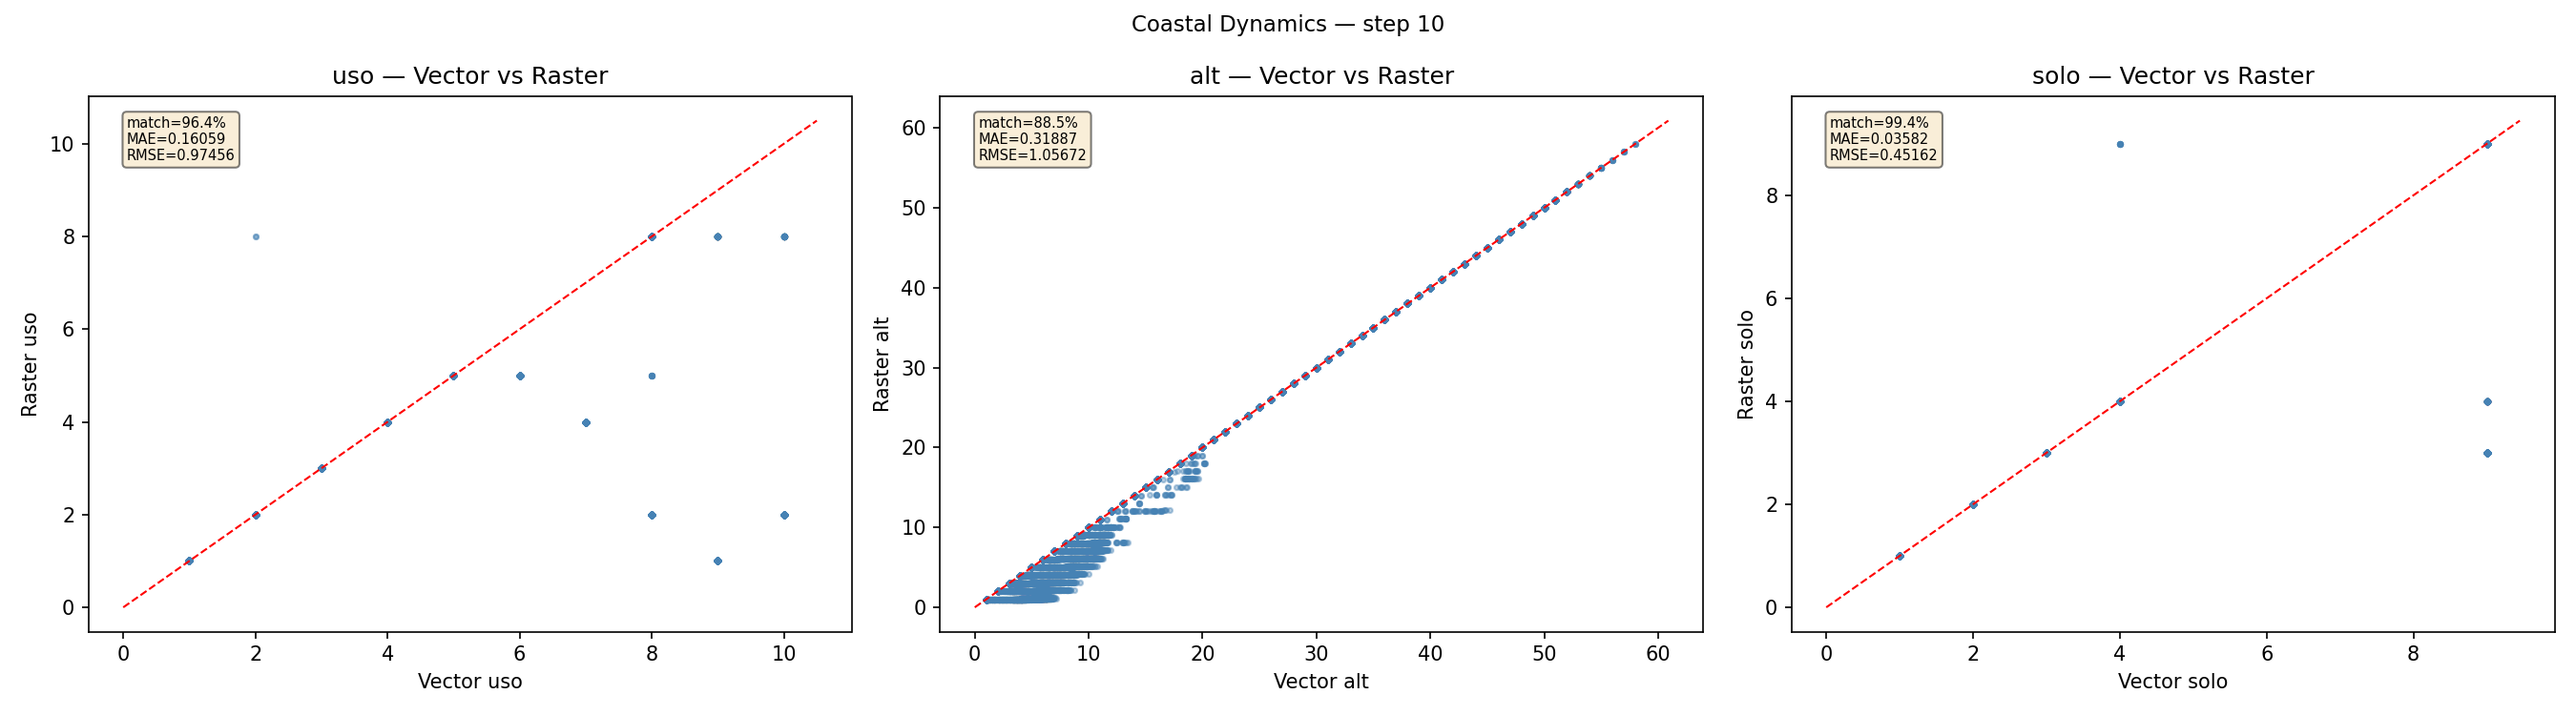
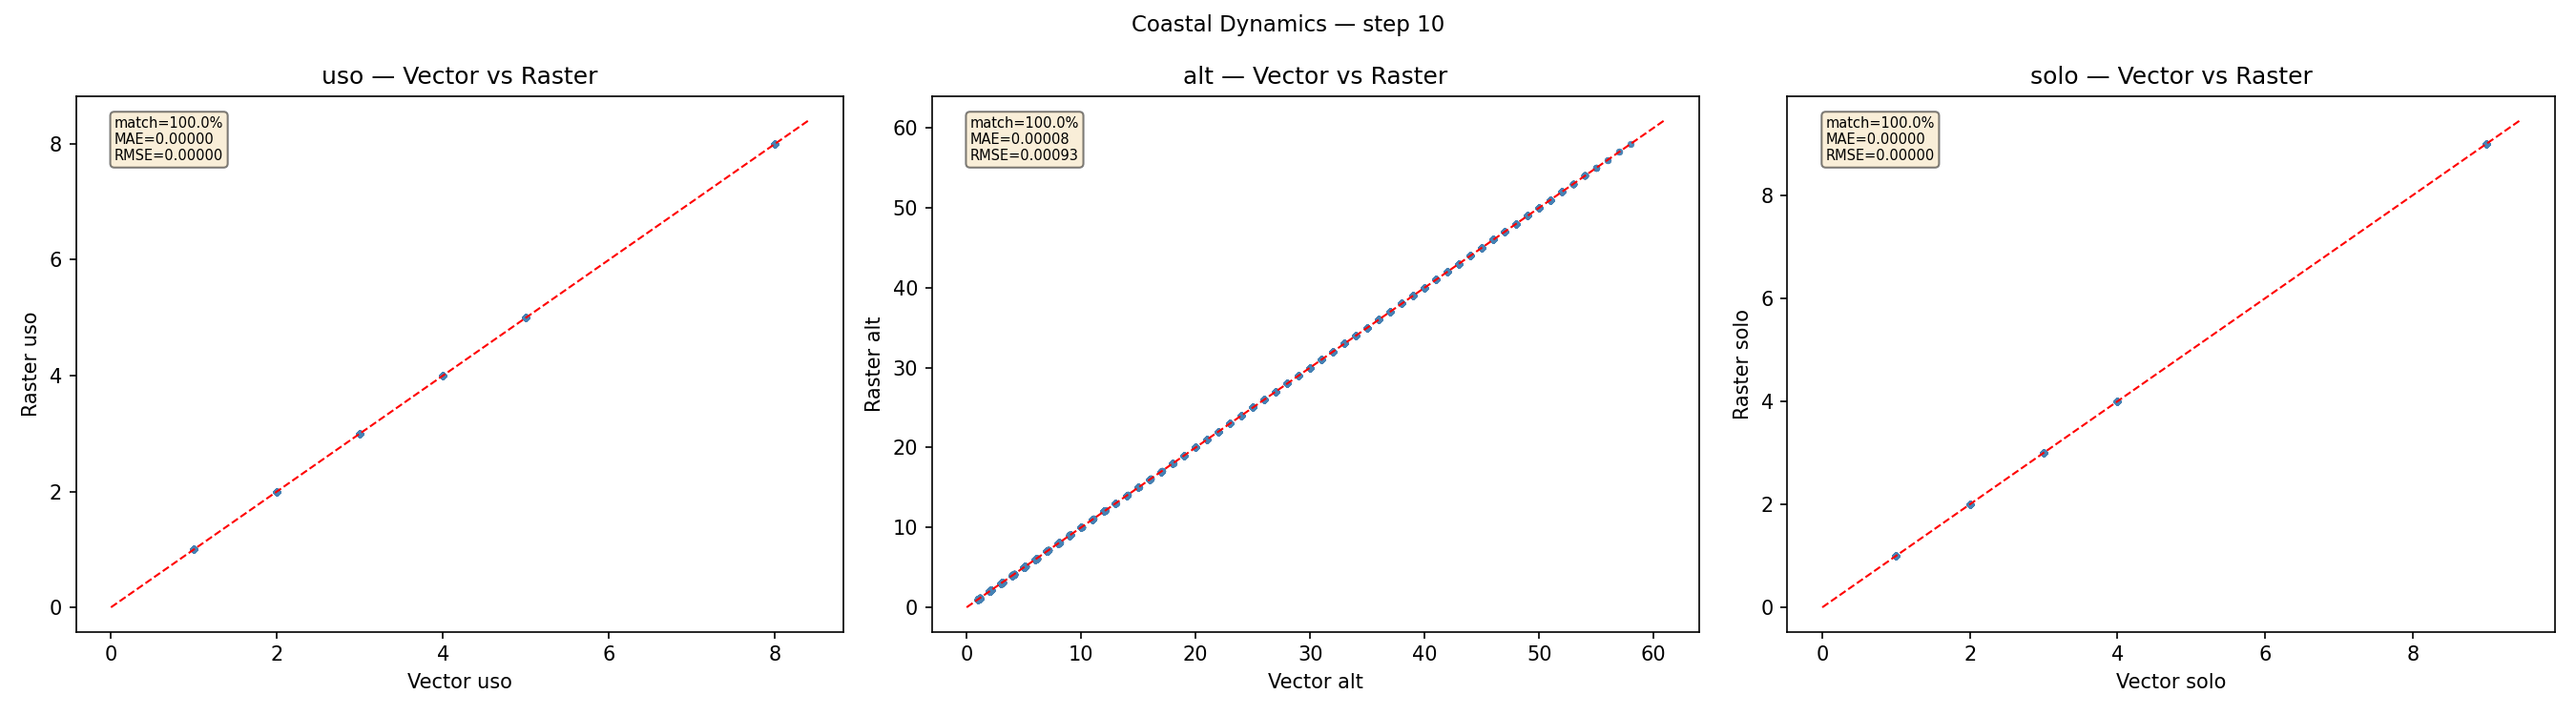
update validation

diff --git a/validate/coastal_validation_report.md b/validate/coastal_validation_report.md
@@ -6,13 +6,13 @@ Steps: 10 | Tolerance: 0.05
 
 | Substrate | ms/step | Speedup |
 |---|---|---|
-| Vector | 1352.2 | 1× |
-| Raster | 68.7 | 19.7× |
+| Vector | 1575.3 | 1× |
+| Raster | 175.0 | 9.0× |
 
 ## Accuracy
 
 | Band | Match % | MAE | RMSE | Max err | N cells |
 |---|---|---|---|---|---|
-| uso | 96.40% | 0.160587 | 0.974555 | 8.000000 | 50496 |
-| alt | 88.46% | 0.318868 | 1.056721 | 6.579384 | 50496 |
-| solo | 99.37% | 0.035825 | 0.451616 | 6.000000 | 50496 |
+| uso | 100.00% | 0.000000 | 0.000000 | 0.000000 | 50496 |
+| alt | 100.00% | 0.000078 | 0.000932 | 0.028277 | 50496 |
+| solo | 100.00% | 0.000000 | 0.000000 | 0.000000 | 50496 |
